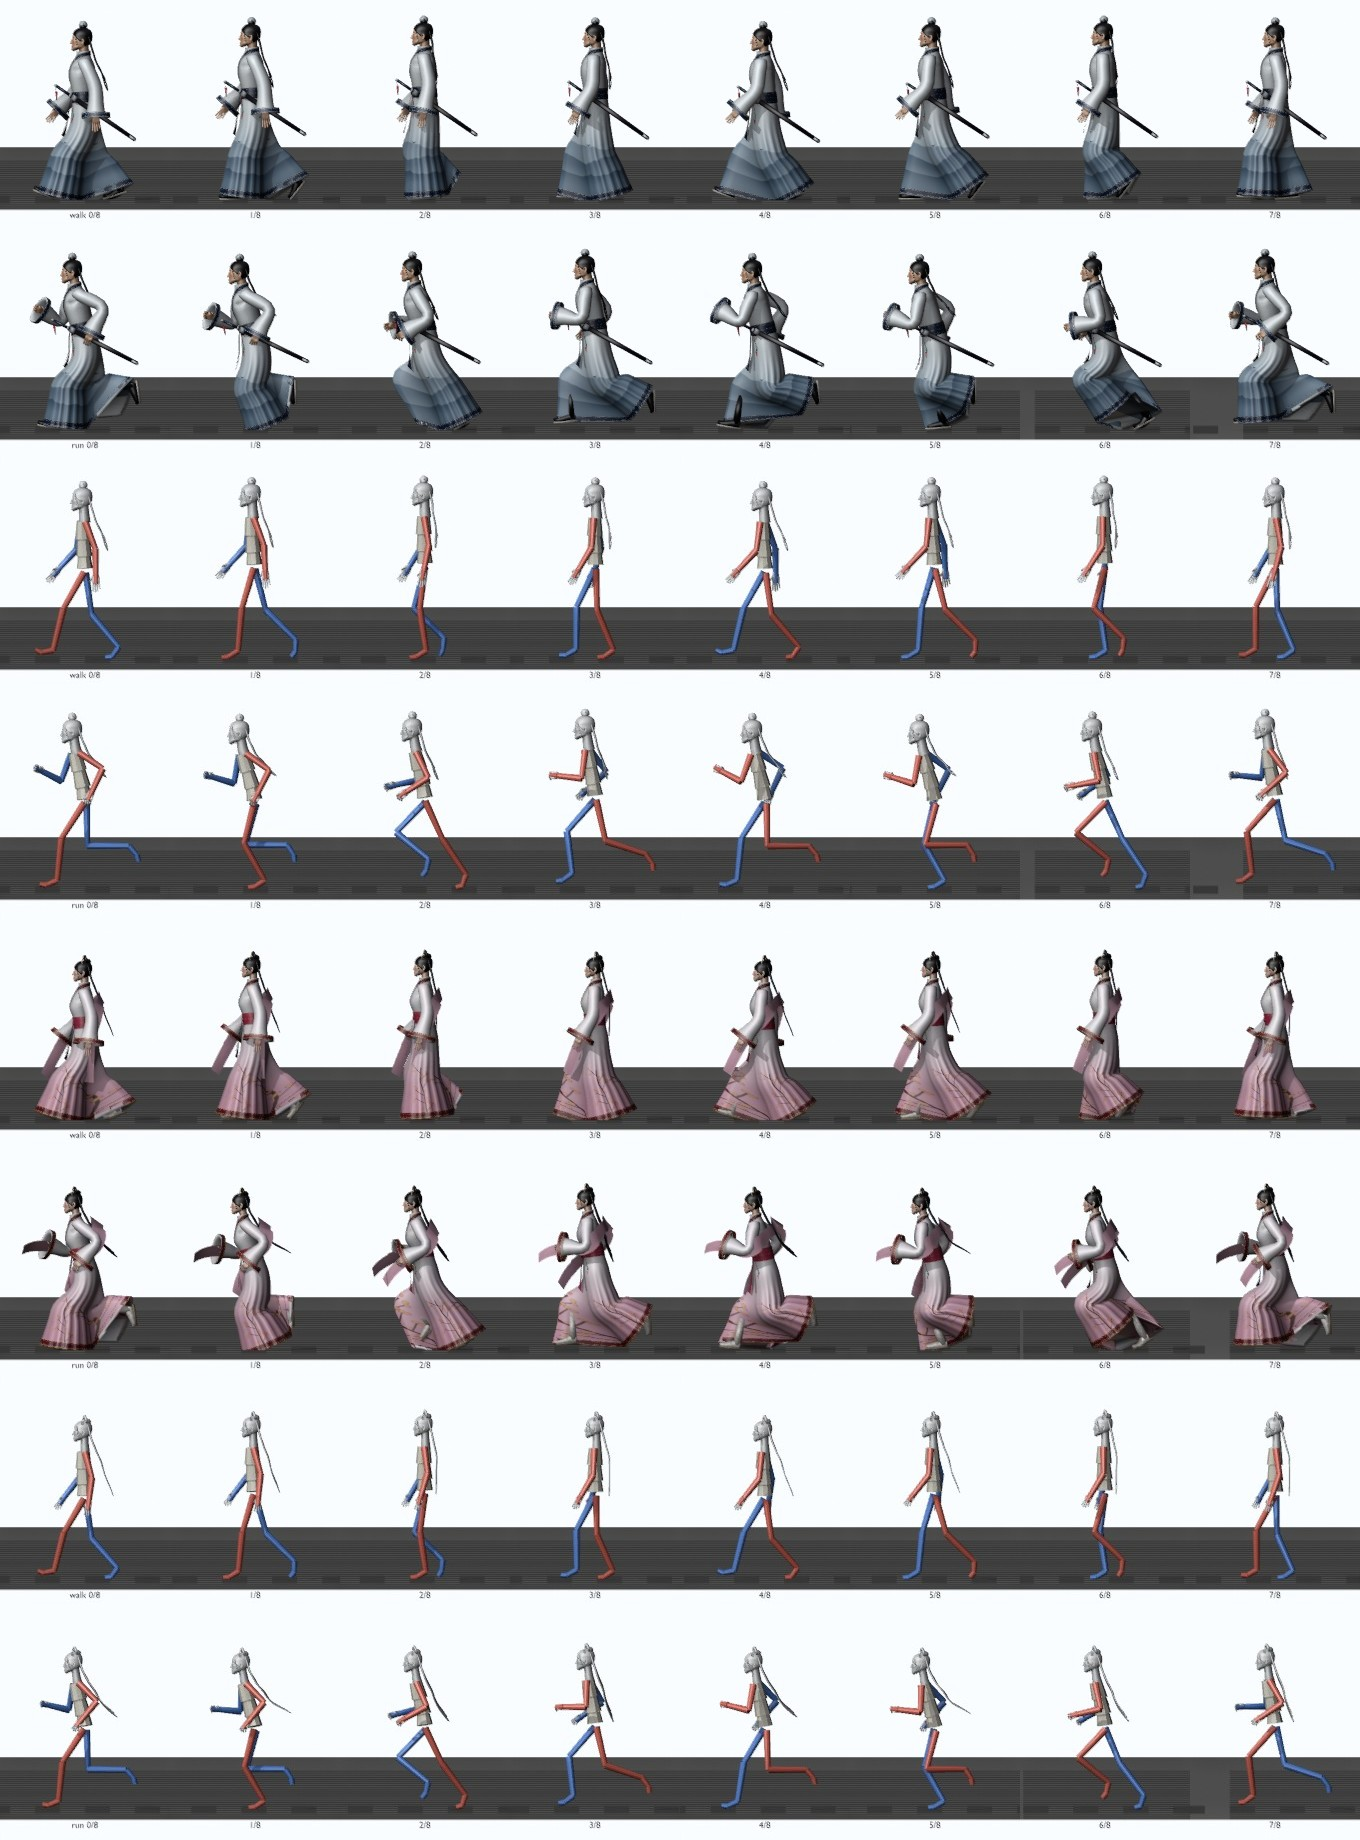
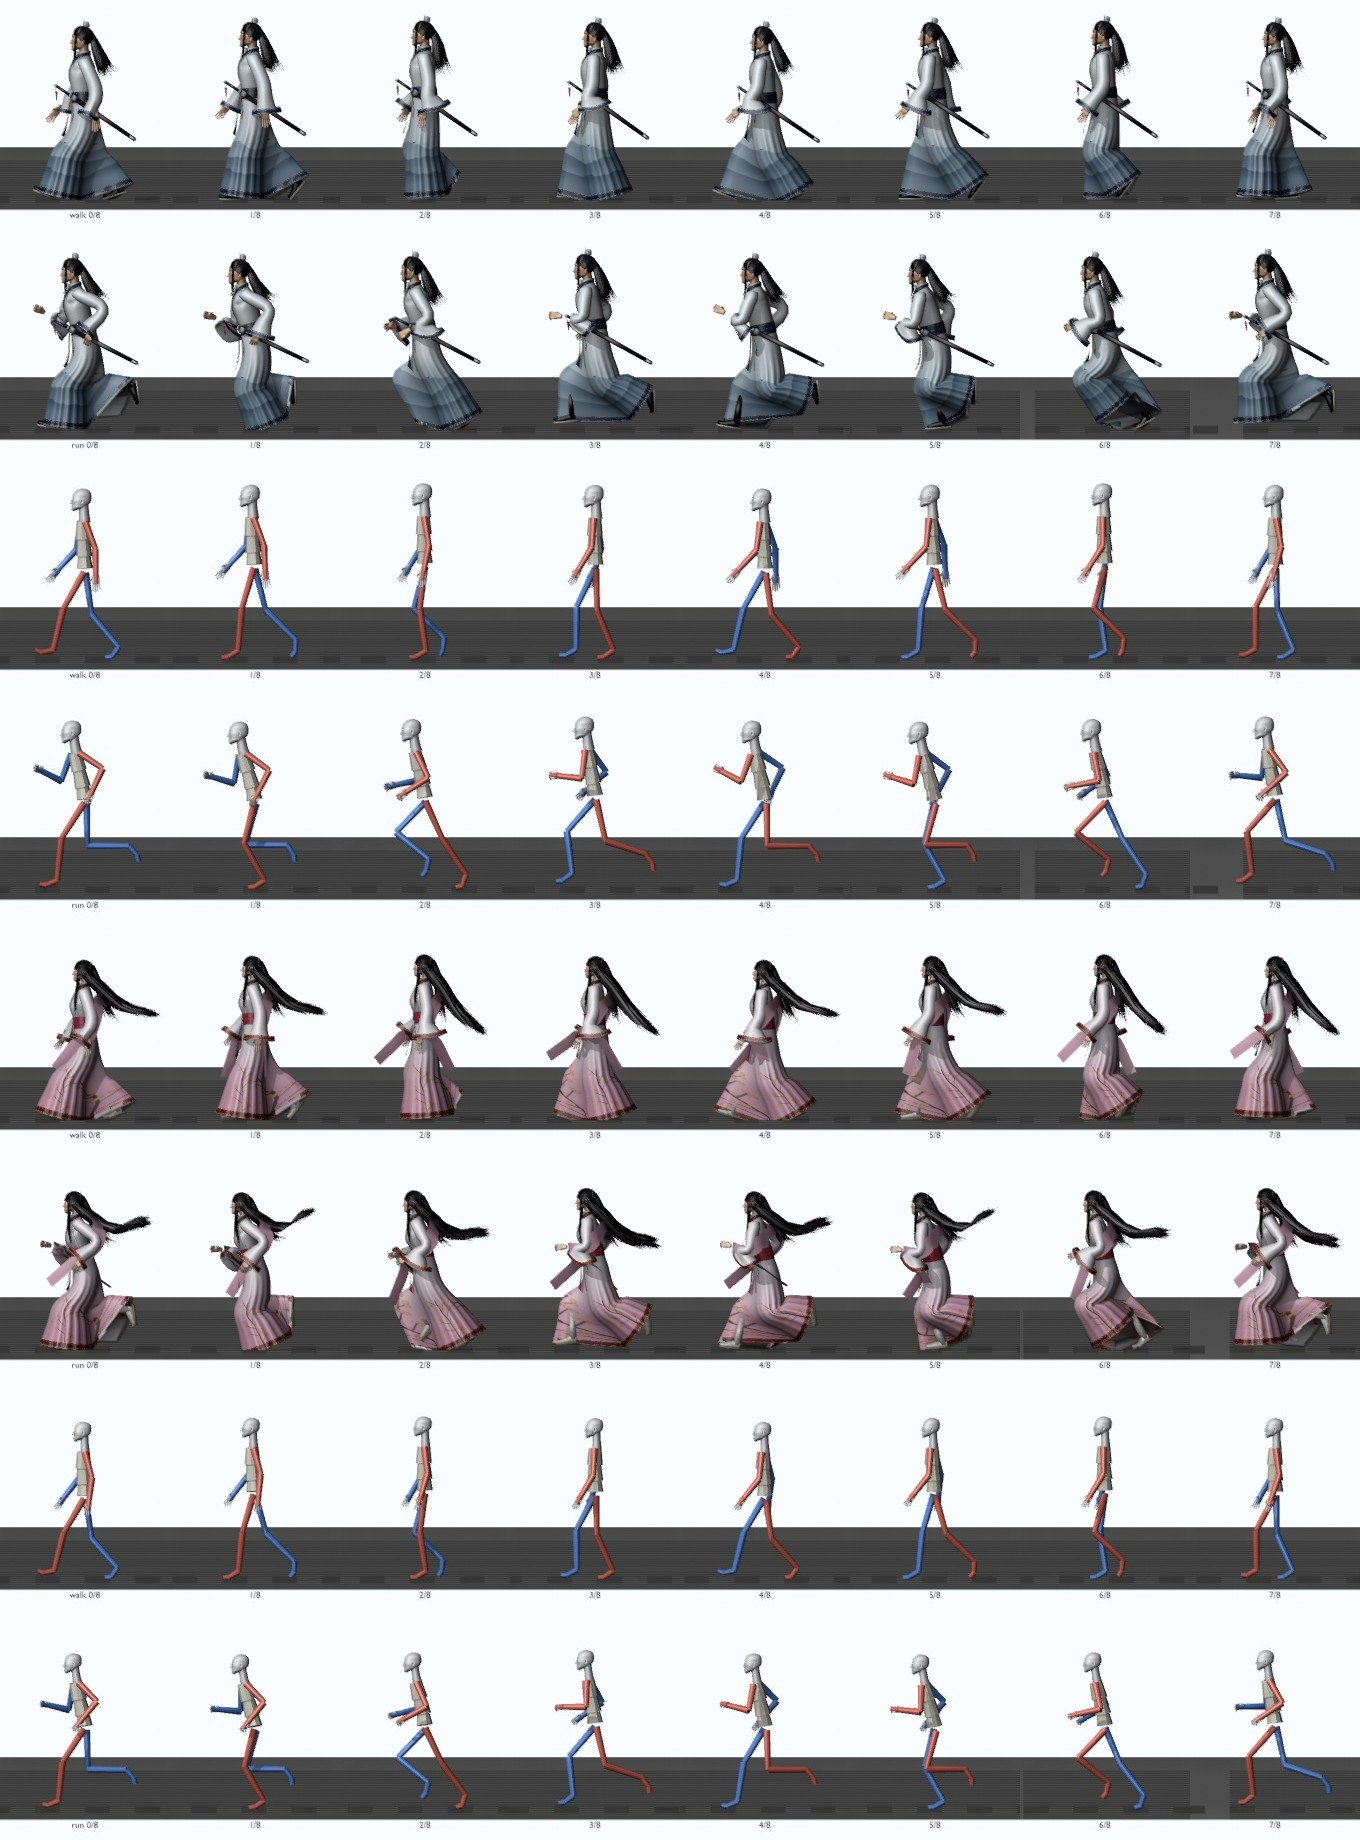
sleeves: hanging drape bones instead of forward-pointing trumpet cuffs
Wide hanfu sleeves and cuffs were skinned rigidly to the forearm, so any
bent elbow pointed the opening forward like a horn (worst on Su Yue, whose
pibo ribbon tails also jutted forward). Each arm gets a sleeve.L/R drape
bone; the back / lower drape, cuff and ribbon tails are weighted to it, and
gait.sleeve_follow bakes it on every action as a damped gravity pendulum
that matches the modelled drape with the arms hanging and pulls it down as
the forearm rises. Screenshot and bug log updated.

Claude-Session: https://claude.ai/code/session_01EN1kjXPAfDEKoNwEgp25mB

diff --git a/blender/xianxia/gait.py b/blender/xianxia/gait.py
@@ -968,7 +968,7 @@ def _secondary(arm, core):
     """Bones hanging off the solved body, as parent -> child chains."""
     out = []
     for b in arm.data.bones:
-        if b.name in core or b.parent is None or b.parent.name not in core:
+        if b.name in core or b.parent is None or b.parent.name not in core or b.name.startswith("sleeve"):
             continue
         chain = [b.name]
         c = b
@@ -1168,3 +1168,116 @@ def build_locomotion(arm, J, cfg, s, kinds=("walk", "run")):
         acts.append(act)
     arm.animation_data.action = keep
     return acts
+
+
+# --------------------------------------------------------------------------
+# wide sleeves: a hanging drape bone per arm, baked onto every action
+# --------------------------------------------------------------------------
+def _key_rotation(act, arm, bone, frames, quats):
+    """(Re)write a bone's rotation channels with one key per frame."""
+    path = f'pose.bones["{bone}"].rotation_quaternion'
+    arm.pose.bones[bone].rotation_mode = "QUATERNION"
+    for i in range(4):
+        fc = act.fcurve_ensure_for_datablock(arm, path, index=i, group_name=bone)
+        kp = fc.keyframe_points
+        kp.clear()
+        kp.add(len(frames))
+        co = []
+        for f, q in zip(frames, quats):
+            co += [float(f), q[i]]
+        kp.foreach_set("co", co)
+        for k in kp:
+            k.interpolation = "LINEAR"
+        fc.update()
+
+
+def sleeve_follow(arm, actions, scale=1.0, length=0.2, bones=("sleeve.L", "sleeve.R")):
+    """Bake the sleeve drape bones on every action.
+
+    Each drape is a damped spherical pendulum hung from the forearm: gravity
+    pulls it down, a little cloth stiffness pulls it toward the pose it has
+    when carried rigidly by the forearm, the pivot's own acceleration swings
+    it (follow-through when the arm pumps), and it never rises above ~15 deg
+    below the horizontal.  The bone keeps the forearm's twist (swing-only
+    correction).  Looping actions (first and last frame agree) are simulated
+    for three cycles and the steady-state cycle is kept, so they still loop.
+    """
+    names = [b for b in bones if b in arm.data.bones]
+    if not names:
+        return
+    rest = {b.name: b.matrix_local.copy() for b in arm.data.bones}
+    if arm.animation_data is None:
+        arm.animation_data_create()
+    keep = arm.animation_data.action
+    L = length * scale
+    down = V((0.0, 0.0, -1.0))
+    gvec = V((0.0, 0.0, -G))
+    for act in actions:
+        smp = _Sampler(arm, act)
+        f0, f1 = int(round(smp.f0)), int(round(smp.f1))
+        frames = list(range(f0, f1 + 1))
+        for bn in names:
+            par = arm.data.bones[bn].parent.name
+            rel = rest[par].inverted() @ rest[bn]
+            carried = []
+            for f in frames:
+                M = smp.pose([par], float(f))[par] @ rel
+                carried.append(M)
+            P = [M.translation.copy() for M in carried]
+            C = [(M.to_3x3() @ V((0, 1, 0))).normalized() for M in carried]
+            loop = (P[0] - P[-1]).length < 1e-4 * scale and C[0].dot(C[-1]) > 0.99999
+            n = len(frames)
+            dt = 1.0 / FPS
+            sub = 8
+            h = dt / sub
+
+            D0 = (rest[bn].to_3x3() @ V((0, 1, 0))).normalized()
+
+            def target(i):
+                # arm hanging as in the rest pose: the drape hangs as modelled;
+                # as the forearm rises toward level, the drape is pulled down
+                hang = (down * 0.85 + C[i] * 0.15).normalized()
+                f = sm((C[i].z - D0.z) / max(1e-3, -D0.z))
+                return C[i].slerp(hang, f) if C[i].dot(hang) > -0.99 else hang
+            q = P[0] + target(0) * L
+            v = V((0, 0, 0))
+            out = [None] * n
+            reps = 3 if loop and n > 2 else 1
+            for rep in range(reps):
+                for i in range(n):
+                    if rep == reps - 1:
+                        out[i] = (q - P[i]).normalized()
+                    if i == n - 1:
+                        break
+                    for m in range(sub):
+                        a_ = (m + 1) / sub
+                        piv = P[i].lerp(P[i + 1], a_)
+                        tgt = piv + (target(i).lerp(target(i + 1), a_)).normalized() * L
+                        acc = gvec * 0.35 + (tgt - q) * 60.0 - v * 7.0
+                        v = v + acc * h
+                        q = q + v * h
+                        d = q - piv
+                        if d.length < 1e-6:
+                            d = down.copy()
+                        d.normalize()
+                        if d.z > -0.26:                 # never flare above ~15 deg below level
+                            d.z = -0.26
+                            d.normalize()
+                        qn = piv + d * L
+                        v = v - d * v.dot(d)            # no stretching
+                        q = qn
+            if loop:
+                out[-1] = out[0]
+            quats = []
+            prev = None
+            for i in range(n):
+                rot_c = carried[i].to_quaternion()
+                sw = C[i].rotation_difference(out[i])
+                basis = rot_c.inverted() @ sw @ rot_c
+                if prev is not None and prev.dot(basis) < 0:
+                    basis.negate()
+                prev = basis
+                quats.append(basis)
+            arm.animation_data.action = act
+            _key_rotation(act, arm, bn, frames, quats)
+    arm.animation_data.action = keep

diff --git a/blender/xianxia/characters.py b/blender/xianxia/characters.py
@@ -181,6 +181,10 @@ def joints(cfg):
         b[f"upper_arm.{side}"] = (mir(sh), mir(elbow), f"shoulder.{side}")
         b[f"forearm.{side}"] = (mir(elbow), mir(wrist), f"upper_arm.{side}")
         b[f"hand.{side}"] = (mir(wrist), mir(hand), f"forearm.{side}")
+        # wide-sleeve drape: hangs from mid-forearm, kept gravity-aligned with
+        # follow-through by gait.sleeve_follow on every action
+        sl = elbow + (wrist - elbow) * 0.3
+        b[f"sleeve.{side}"] = (mir(sl), mir(sl + (wrist - elbow).normalized() * 0.2), f"forearm.{side}")
         b.update(anatomy.finger_bones(mir(wrist), mir(hand), side, hand_scale(cfg)))
         b[f"thigh.{side}"] = (mir(V((hw, 0.0, 0.94))), mir(V((hw, -0.012, 0.515))), "hips")
         b[f"shin.{side}"] = (mir(V((hw, -0.012, 0.515))), mir(V((hw, 0.018, 0.09))), f"thigh.{side}")
@@ -295,6 +299,33 @@ def w_arm(p, bones, s, side):
     return w
 
 
+def w_sleeve(p, bones, s, side):
+    """Wide sleeve / cuff: the upper sleeve and the front of the opening
+    follow the arm, the back and lower drape progressively the hanging
+    sleeve bone (so a bent elbow does not swing the opening forward like a
+    horn: the drape falls under the forearm)."""
+    w = w_arm(p, bones, s, side)
+    bn = f"sleeve.{side}"
+    if bn not in bones:
+        return w
+    el, wr, _ = bones[f"forearm.{side}"]
+    d = wr - el
+    flen = d.length
+    d = d / flen
+    along = (p - el).dot(d)
+    t = along / flen
+    off = p - (el + d * along)
+    r = max(off.length, 1e-6)
+    back = off.y / r      # rest pose: +y is behind the arm = underneath once the elbow bends
+    k = util_smooth((t - 0.15) / 0.6)
+    k *= 0.45 + 0.53 * util_smooth((back + 0.25) / 0.95)
+    if k <= 0.0:
+        return w
+    w = {n: v * (1 - k) for n, v in w.items()}
+    _add(w, {bn: k})
+    return w
+
+
 def w_hand(p, bones, s, side):
     h, t, _ = bones[f"hand.{side}"]
     along = (p - h).dot((t - h).normalized())
@@ -317,7 +348,18 @@ def w_neck(p, bones, s):
 
 def w_ribbon(p, bones, s):
     names = ["chest", "upper_arm.L", "forearm.L", "upper_arm.R", "forearm.R", "spine"]
-    return seg_weights(p, bones, names, power=6.0, top=2)
+    w = seg_weights(p, bones, names, power=6.0, top=2)
+    # the tails hanging below the wrists ride the gravity-aligned sleeve drape
+    # (on the forearm they jutted forward like a tray whenever the elbow bent)
+    side = "L" if p.x > 0 else "R"
+    bn = f"sleeve.{side}"
+    if bn in bones:
+        wz = bones[f"forearm.{side}"][1].z
+        f = util_smooth((wz + 0.04 * s - p.z) / (0.14 * s))
+        if f > 0:
+            w = {n: v * (1 - f) for n, v in w.items()}
+            _add(w, {bn: f})
+    return w
 
 
 def assign(obj, fn, bones, s, *args):
@@ -628,7 +670,7 @@ def build_outfit(cfg, J, mats, s):
                 u_, v_ = loop[uvl].uv
                 loop[uvl].uv = (u_, 0.62 + v_ * 0.5)
         sl = util.mesh_object(f"Sleeve.{side}", bm, mats["robe"])
-        parts.append(("arm", sl, side))
+        parts.append(("sleeve", sl, side))
         # cuff trim band
         bm = bmesh.new()
         c0 = cuff - d * 0.05 * s
@@ -642,7 +684,7 @@ def build_outfit(cfg, J, mats, s):
             rings_c.append(util.ring(pt, b, nn, rx_ * 1.02, ry_ * 1.02, 32))
         util.loft(bm, rings_c, closed=True, uv_scale=(6.0, 1.0 / (0.05 * s)))
         o = util.mesh_object(f"Cuff.{side}", bm, mats["trim"])
-        parts.append(("arm", o, side))
+        parts.append(("sleeve", o, side))
         # hand: one subdivided surface with knuckles, finger pads and nails
         _, hand_t, _ = J[f"hand.{side}"]
         o, nails = anatomy.hand_mesh(wr, hand_t, side, s * hand_scale(cfg), mats["skin"], mats["nail"],
@@ -1321,6 +1363,9 @@ def build_character(cfg):
         elif kind == "arm":
             assign(o, w_arm, J, s, side)
             clothes.append(o)
+        elif kind == "sleeve":
+            assign(o, w_sleeve, J, s, side)
+            clothes.append(o)
         elif kind == "hand":
             assign(o, w_hand, J, s, side)
             body.append(o)
@@ -1354,4 +1399,6 @@ def build_character(cfg):
     if cfg["name"].startswith("cultivator_"):
         from . import moves
         actions += moves.build_player_actions(arm, J, cfg, s)
+    from . import gait
+    gait.sleeve_follow(arm, actions, s)
     return arm, meshes, actions

diff --git a/docs/bugfixes/animation.md b/docs/bugfixes/animation.md
@@ -21,3 +21,5 @@ foot slip against the ground moving at the authored speed.
 15. `run_start` handed over to `run` with the legs swapped (it ended on a right heel strike, the run cycle starts on the left one), so the 0.25 s crossfade scissored the legs through each other -> mirrored so it drives off the other foot, and its last frame (and `run_stop`'s first) are keyed from the run cycle's actual first pose (blender/xianxia/moves.py:764, `gait.pose_at`).
 16. Keyed hero loops were baked on every other frame with AUTO_CLAMPED handles; the flattened end handles eased the odd frames around the seam (e.g. `charge_hold` seam kink 0.42 deg) -> loops are baked on every frame (blender/xianxia/moves.py:543).
 17. `render_animation_sheet.py --blend` rendered stale animations -> it re-ran `build_player_actions` on the cached scene, creating `*.001` duplicates while the lookup by name found the old actions -> cached scenes are used as-is (blender/render_animation_sheet.py:87).
+18. Wide hanfu sleeves flared forward into rigid trumpet / cone shapes whenever an elbow bent (run, attack, cast, salute), worst on Su Yue -> the whole flared sleeve and cuff were skinned rigidly to the forearm, so the opening always pointed along it -> a `sleeve.L/R` drape bone per arm (blender/xianxia/characters.py:187), the back / lower drape and cuff weighted progressively to it (characters.py:302 `w_sleeve`), and on every action the bone is baked as a damped gravity pendulum that matches the modelled drape when the arm hangs and pulls the drape down as the forearm rises (blender/xianxia/gait.py:1194 `sleeve_follow`, called from characters.py:1403).
+19. Su Yue's pibo ribbon tails jutted forward like a tray with bent elbows -> the tails hanging below the wrists were skinned to the forearms -> tails below the wrist ride the hanging sleeve drape bone (blender/xianxia/characters.py:349 `w_ribbon`).
